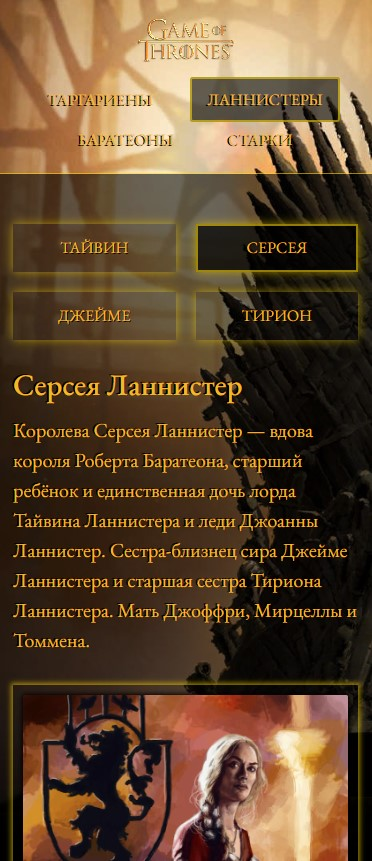
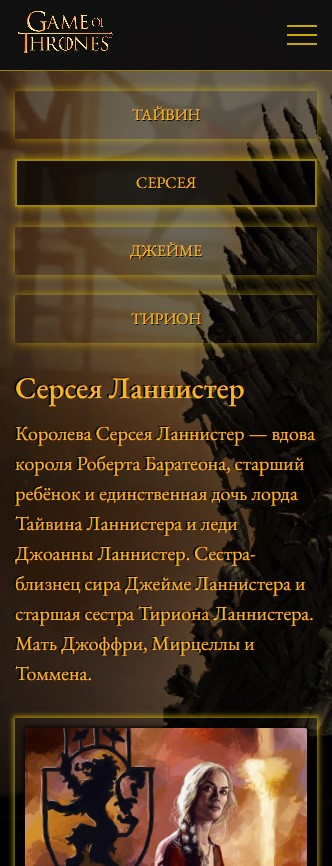
Updated readme file.

diff --git a/README.md b/README.md
@@ -13,7 +13,9 @@ If you select the appropriate lord from the list of lords, will be displayed tex
 + for screen resolutions less than 992px
 ![example](screenshots/example3.jpg 'menu')
 + for screen resolutions less than 768px
-![example](screenshots/example4.jpg 'menu')
+![example](screenshots/lessthan768.jpg 'menu')
++ for screen resolutions less than 768px with active burger-menu
+![example](screenshots/lessthan768active.jpg 'menu')
 + for mobile devices
 ![example](screenshots/example5.jpg 'menu')
 
